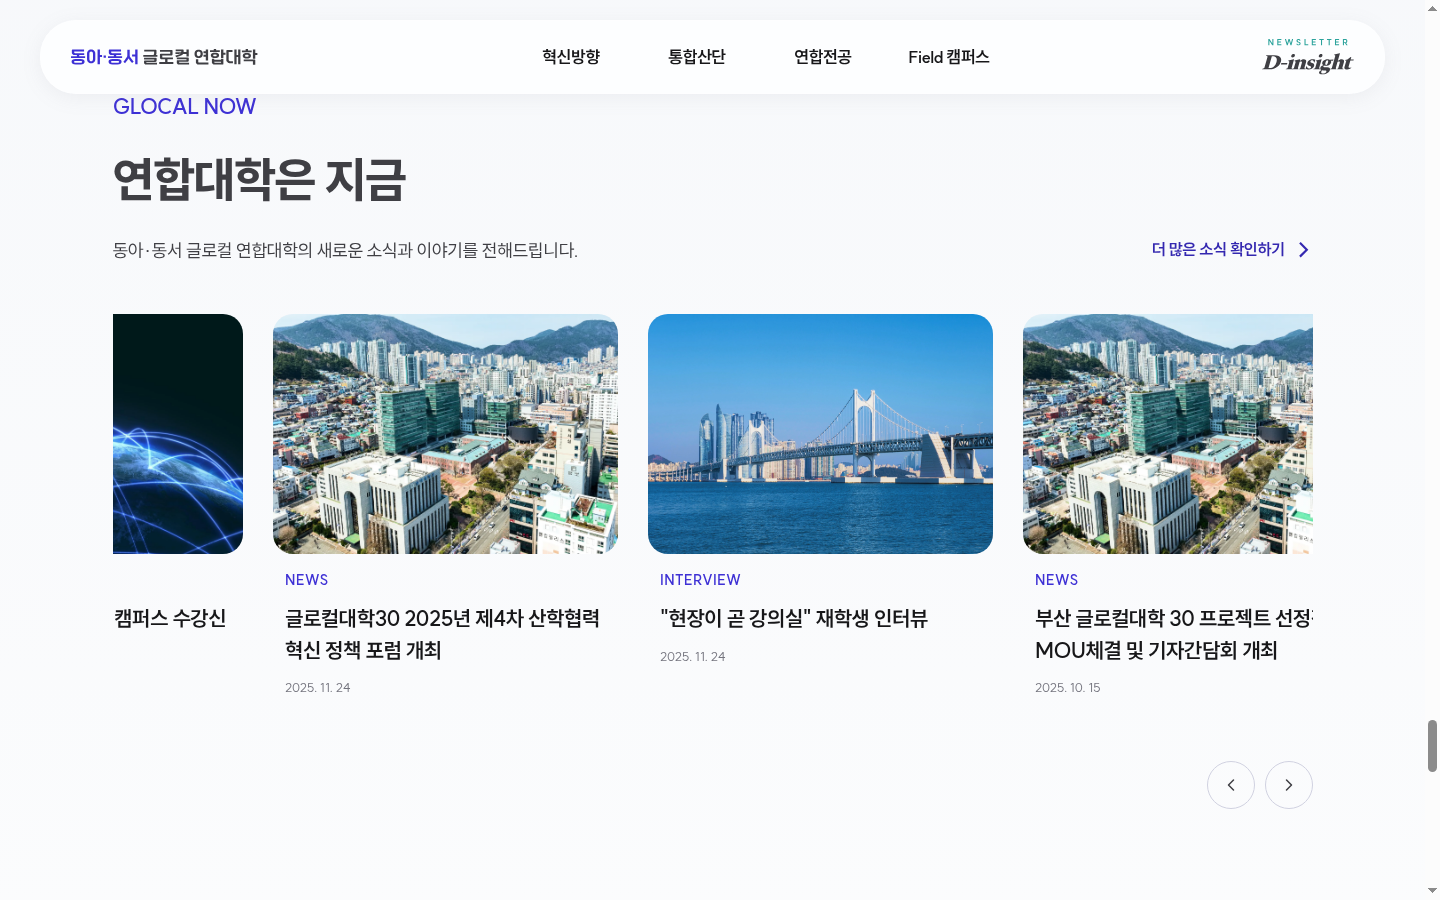
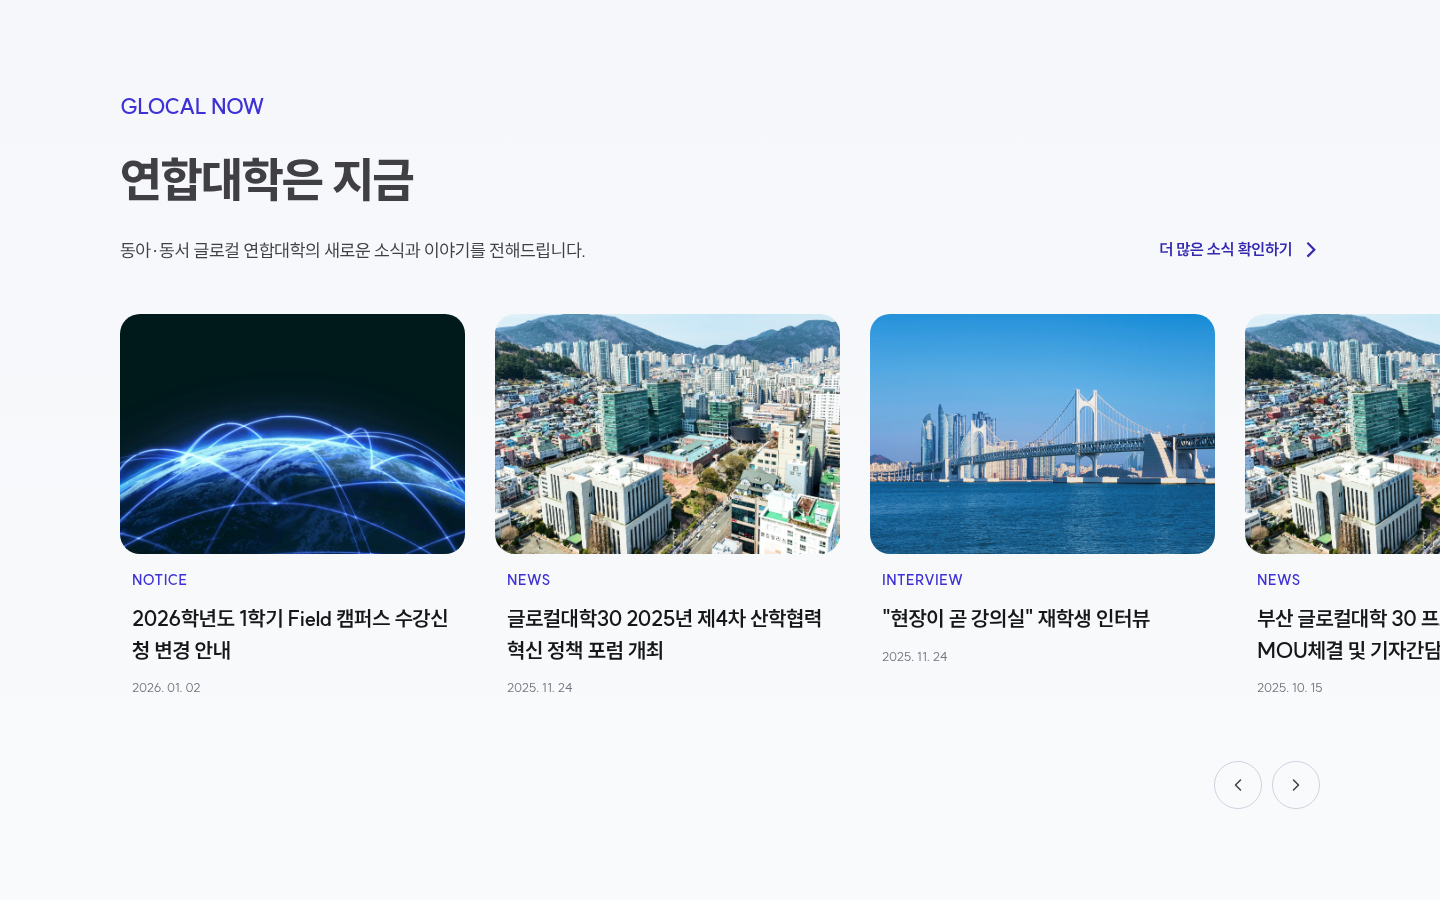
캠퍼스 이미지 추가 + 혁신방향 이미지 링크 + GLOCAL NOW 스크린샷 갱신
- 동서대주례, 동아대승학, 동아대부민, 동서대센텀 이미지 추가
- 피드백 문서 혁신방향 섹션에 캠퍼스 이미지 링크 삽입
- GLOCAL NOW 카드 오른쪽 끝까지 확장되도록 overflow 수정
- GLOCAL NOW 스크린샷 갱신

diff --git a/landing_20260223/index.html b/landing_20260223/index.html
@@ -730,7 +730,7 @@
 
 <!-- ═══ 5. GLOCAL NOW ═══ -->
 <section class="relative" id="news" style="height:250vh; background: linear-gradient(180deg, #f5f7fa 0%, #ffffff 100%);">
-    <div class="sticky top-0 h-screen flex flex-col justify-center overflow-hidden">
+    <div class="sticky top-0 h-screen flex flex-col justify-center" style="overflow-x: clip; overflow-y: hidden;">
         <!-- Header: content-w 내부에 제한 -->
         <div class="content-w flex items-end justify-between mb-[48px]">
             <div class="flex flex-col gap-[24px]">
@@ -743,7 +743,7 @@
             </a>
         </div>
         <!-- Cards: 왼쪽은 content-w 기준으로 시작, 오른쪽은 화면 끝까지 -->
-        <div class="overflow-hidden" style="padding-left: max(24px, calc((100vw - 1280px) / 2 + 40px));">
+        <div style="padding-left: max(24px, calc((100vw - 1280px) / 2 + 40px));">
             <div class="flex gap-[30px] transition-none" id="newsTrack" style="will-change: transform;">
                 <div class="news-card shrink-0 w-[345px] group cursor-pointer">
                     <div class="h-[240px] rounded-[20px] overflow-hidden bg-gray-100 group-hover:shadow-lg transition-shadow">

diff --git a/landing_20260223/피드백_20260303.md b/landing_20260223/피드백_20260303.md
@@ -101,10 +101,10 @@
 
 | 혁신방향 | 배경 이미지 |
 |---------|-----------|
-| 01 — Field Campus & R&D Innovation | 동서대 주례캠퍼스 |
-| 02 — Settlement & Urban Boarding | 동아대 승학캠퍼스 |
-| 03 — The Open Alliance University | 동아대 부민캠퍼스 |
-| 지향점 — Connected Campus Ecosystem | 동서대 센텀캠퍼스 |
+| 01 — Field Campus & R&D Innovation | [동서대 주례캠퍼스](https://dhkim13dongaackr.github.io/glocal-web/static/pictures/동서대주례.jpg) |
+| 02 — Settlement & Urban Boarding | [동아대 승학캠퍼스](https://dhkim13dongaackr.github.io/glocal-web/static/pictures/동아대승학.jpg) |
+| 03 — The Open Alliance University | [동아대 부민캠퍼스](https://dhkim13dongaackr.github.io/glocal-web/static/pictures/동아대부민.jpg) |
+| 지향점 — Connected Campus Ecosystem | [동서대 센텀캠퍼스](https://dhkim13dongaackr.github.io/glocal-web/static/pictures/동서대센텀.jpg) |
 
 개발버전에서는 왼쪽 이미지가 고정되어 있는데, 카드 전환에 맞춰 배경도 함께 바뀌면 각 방향의 특성이 더 잘 전달될 것 같습니다.
 
